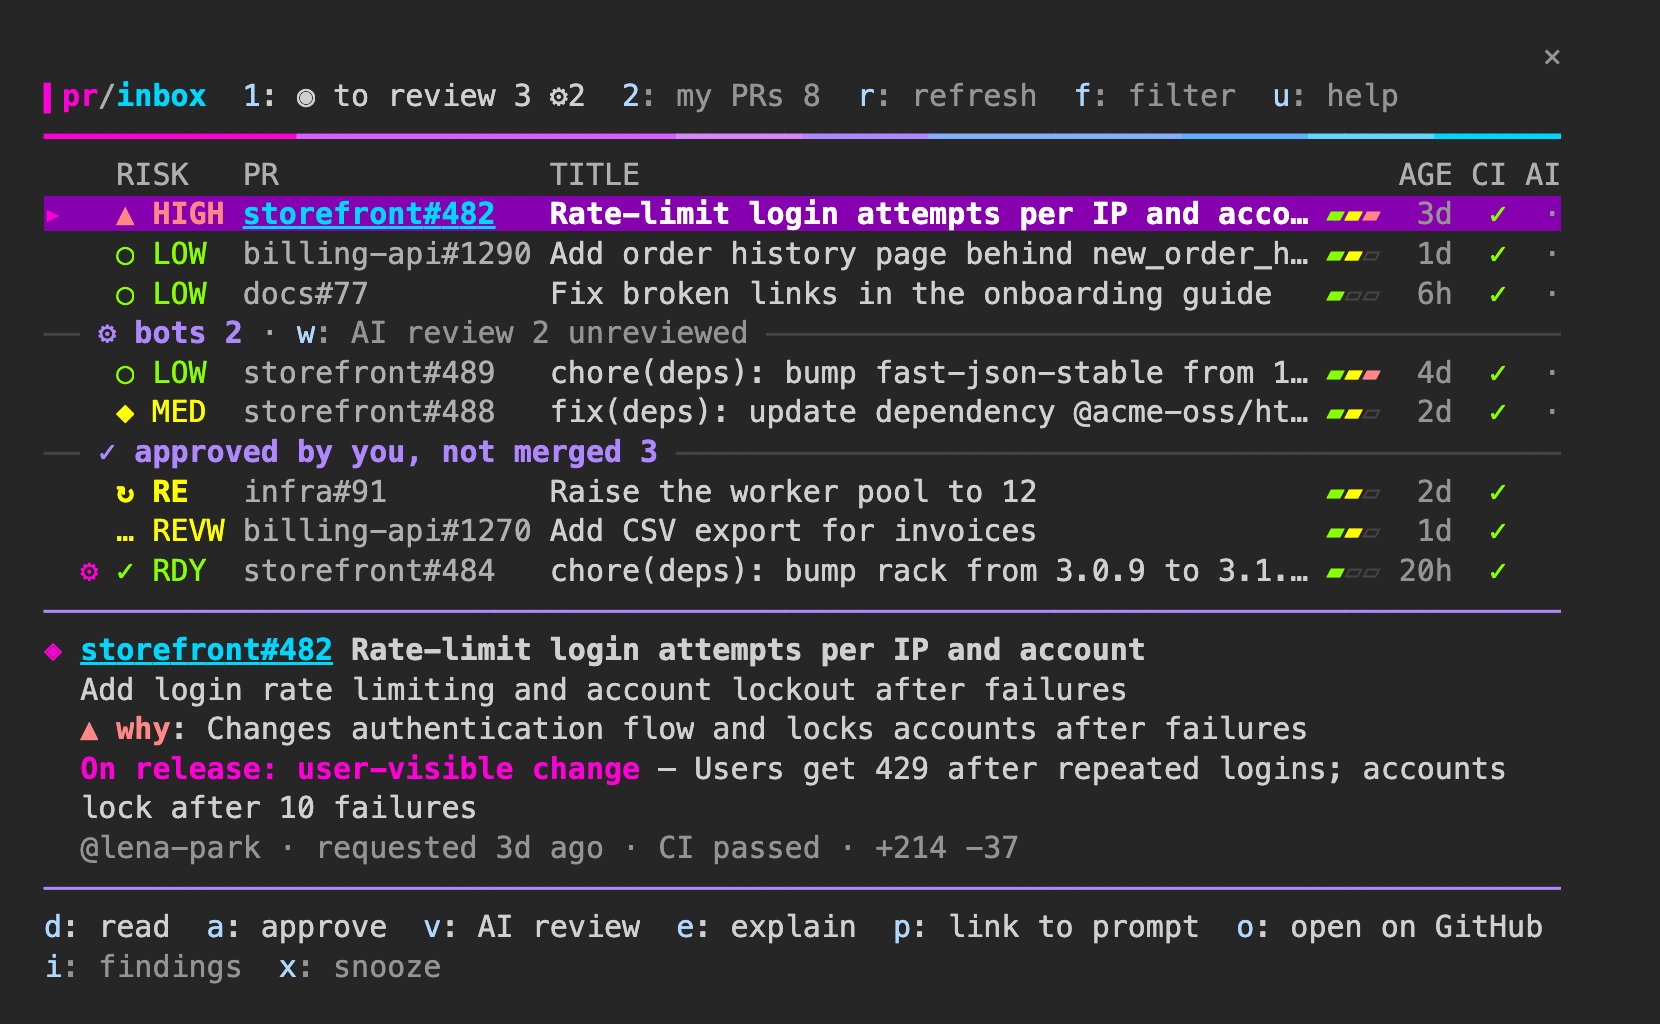
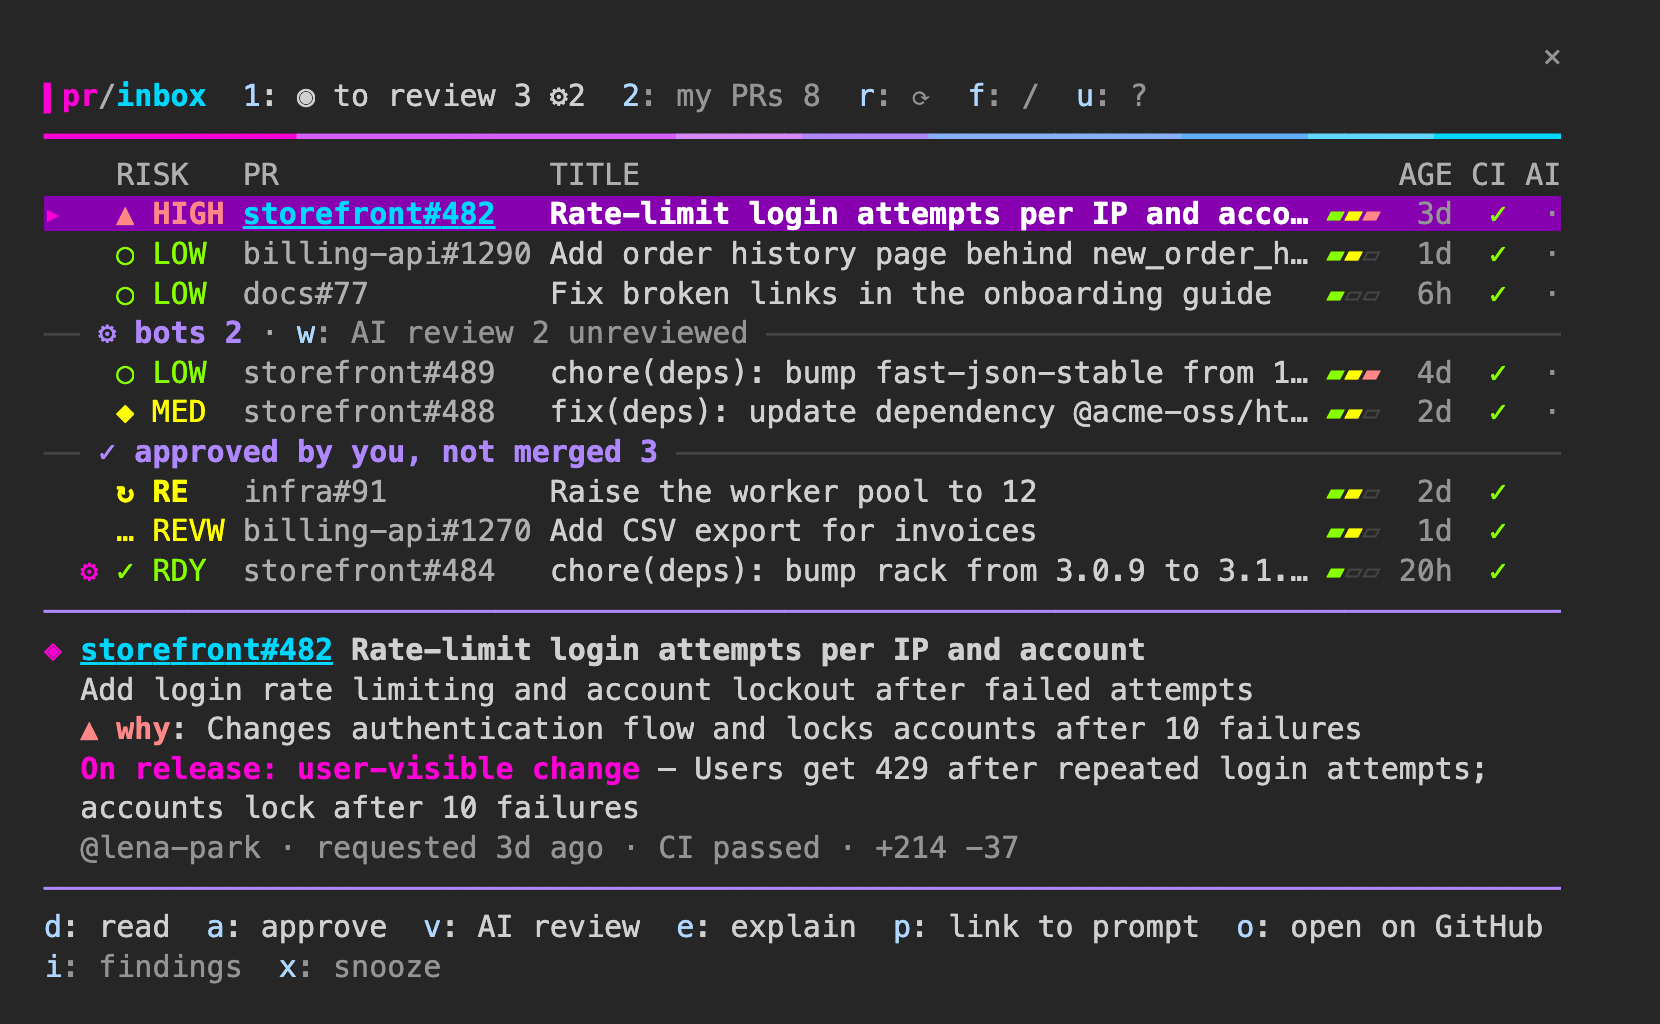
ヘッダーの r / f / u は記号に戻す (⟳ / / / ?)
毎回目に入る場所なので短い記号のほうが見やすい。意味は u のヘルプにある。

Claude-Session: https://claude.ai/code/session_012qFELqGckYr3Rhu1dgwcxY

diff --git a/tests/pr-inbox.test.ts b/tests/pr-inbox.test.ts
@@ -1908,7 +1908,7 @@ test('f filters the list as you type; Enter keeps it, an empty one clears it', a
   expect(await ui.find({ key: `line-${HUMAN2.url}` })).toBeUndefined()
   await ui.input({ key: 'filter-input', text: 'ログイン' })
   expect(await ui.find({ key: 'filter-input' })).toBeUndefined()
-  expect((await ui.find({ key: 'filter' }))?.props.label).toBe('filter /ログイン')
+  expect((await ui.find({ key: 'filter' }))?.props.label).toBe('/ログイン')
   // By author and number too
   await ui.press({ key: 'filter' })
   await ui.input({ key: 'filter-input', text: 'app#13', kind: 'change' })
@@ -2642,9 +2642,9 @@ test('every key says what pressing it does, the most used first', async ($, on) 
   const s = stubs(on)
   await start($, s.clock)
   const ui = await $.ui.mount(PANE)
-  expect((await ui.find({ key: 'refresh' }))?.props.label).toBe('refresh')
-  expect((await ui.find({ key: 'filter' }))?.props.label).toBe('filter')
-  expect((await ui.find({ key: 'help' }))?.props.label).toBe('help')
+  expect((await ui.find({ key: 'refresh' }))?.props.label).toBe('⟳')
+  expect((await ui.find({ key: 'filter' }))?.props.label).toBe('/')
+  expect((await ui.find({ key: 'help' }))?.props.label).toBe('?')
   expect((await ui.find({ key: 'tab-mine' }))?.props.label).toBe('my PRs 4')
   // A review request: read, decide, ask, then the quieter keys
   expect(await hotkeysOf(ui, 'footer')).toEqual(['d', 'a', 'v', 'e', 'p', 'o', 'i', 'x'])

diff --git a/hooks/register.ts b/hooks/register.ts
@@ -4290,9 +4290,10 @@ export function register(on: On, options: PluginOptions) {
     // Row 1: tabs and refresh
     // Every key says what pressing it does; refresh says so while it fetches (the list refreshes itself, so the time of
     // the last fetch is left out)
-    const refreshLabel = loading ? '⟳ refreshing…' : 'refresh'
-    const filterLabel = filterText ? `filter /${filterText}` : 'filter'
-    const helpLabel = showHelp ? 'close help' : 'help'
+    // Marks, not words: the header is read at every glance, and u says what each key does
+    const refreshLabel = loading ? '⟳ updating…' : '⟳'
+    const filterLabel = filterText ? `/${filterText}` : '/'
+    const helpLabel = showHelp ? 'close help' : '?'
     const reviewTabLabel = `${tab === 'review' ? '◉ ' : ''}to review ${g.humans.length}${g.bots.length ? ` ⚙${g.bots.length}` : ''}`
     const mineTabLabel = `${tab === 'mine' ? '◉ ' : ''}my PRs ${mine.length}`
     const tabButton = (name: typeof tab, label: string, hotkey: string) =>
